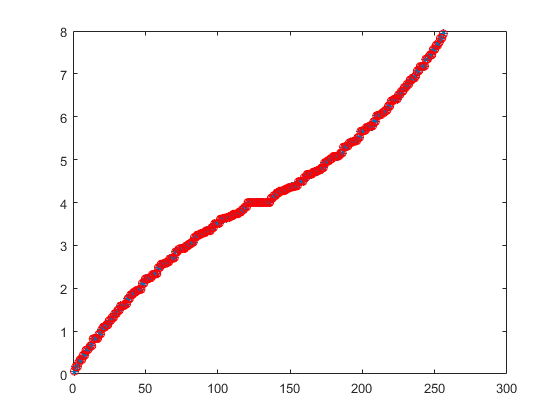
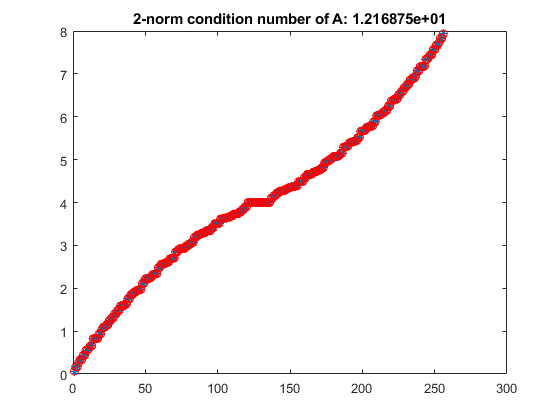
working on q4

Changed region(s): [[0.2429, 0.031, 0.7893, 0.0619]]

diff --git a/matlab/hw8p3.m b/matlab/hw8p3.m
@@ -1,4 +1,4 @@
-function [x_k] = hw8p3(A,b)
+function [x_k,res_norms,k] = hw8p3(A,b)
 % implements the conjugate gradient method. includes a max iteration count
 % to make sure there are no infinite loops. tests to make sure alpha_k is
 % positive, terminates with an error if it is not
@@ -9,14 +9,15 @@ function [x_k] = hw8p3(A,b)
 x_k = randn(n,1);
 
 % set tolerance to be something around machine precision
-tol = 10e-15;
+tol = 10^-8;
 
-% initialize r_0, delta_0, b_delta, k, and p_0
+% initialize r_0, delta_0, b_delta, k, and p_0, and max iterations
 r_k = b-A*x_k;
 delta_k = r_k'*r_k;
 b_delta = b'*b;
-k = 0;
+k = 1;
 p_k = r_k;
+max_iter = 5000;
 
 % conjugate gradient loop
 while delta_k > tol^2*b_delta
@@ -28,12 +29,20 @@ while delta_k > tol^2*b_delta
         error('alpha_k is not greater than 0');
     end
     
+    % compute res_norms
+    res_norms(k) = delta_k^(1/2);
+    
     x_k = x_k+alpha_k*p_k;
     r_k = r_k-alpha_k*s_k;
     delta_kprev = delta_k;
     delta_k = r_k'*r_k;
     p_k = r_k+(delta_k/delta_kprev)*p_k;
+    
+    % terminate if k > max_iter
+    if k > max_iter
+        break
+    end
+    
     k = k+1;
 end
-
 end

diff --git a/matlab/hw8p3test.m b/matlab/hw8p3test.m
@@ -1,0 +1,12 @@
+% test on random pos. def. matrix A that is 10 by 10
+Q = randn(10);
+A = Q'*diag(abs(randn(10,1)))*Q;
+
+% run the following line to check that the eigenvalues are all positive
+% eig(A)
+
+% generate random b
+b = randn(10,1);
+
+% test hw8p3
+[x_k,r_k,k] = hw8p3(A,b)

diff --git a/matlab/hw8p1c.m b/matlab/hw8p1c.m
@@ -26,3 +26,6 @@ hold on
 % compute via MATLAB eig
 lambda_2 = eig(full(A));
 plot(lambda_2,'ro')
+
+% put 2-norm condition number of A as the title of the plot
+title(sprintf('2-norm condition number of A: %e', eigvalues(N)/eigvalues(1)))
